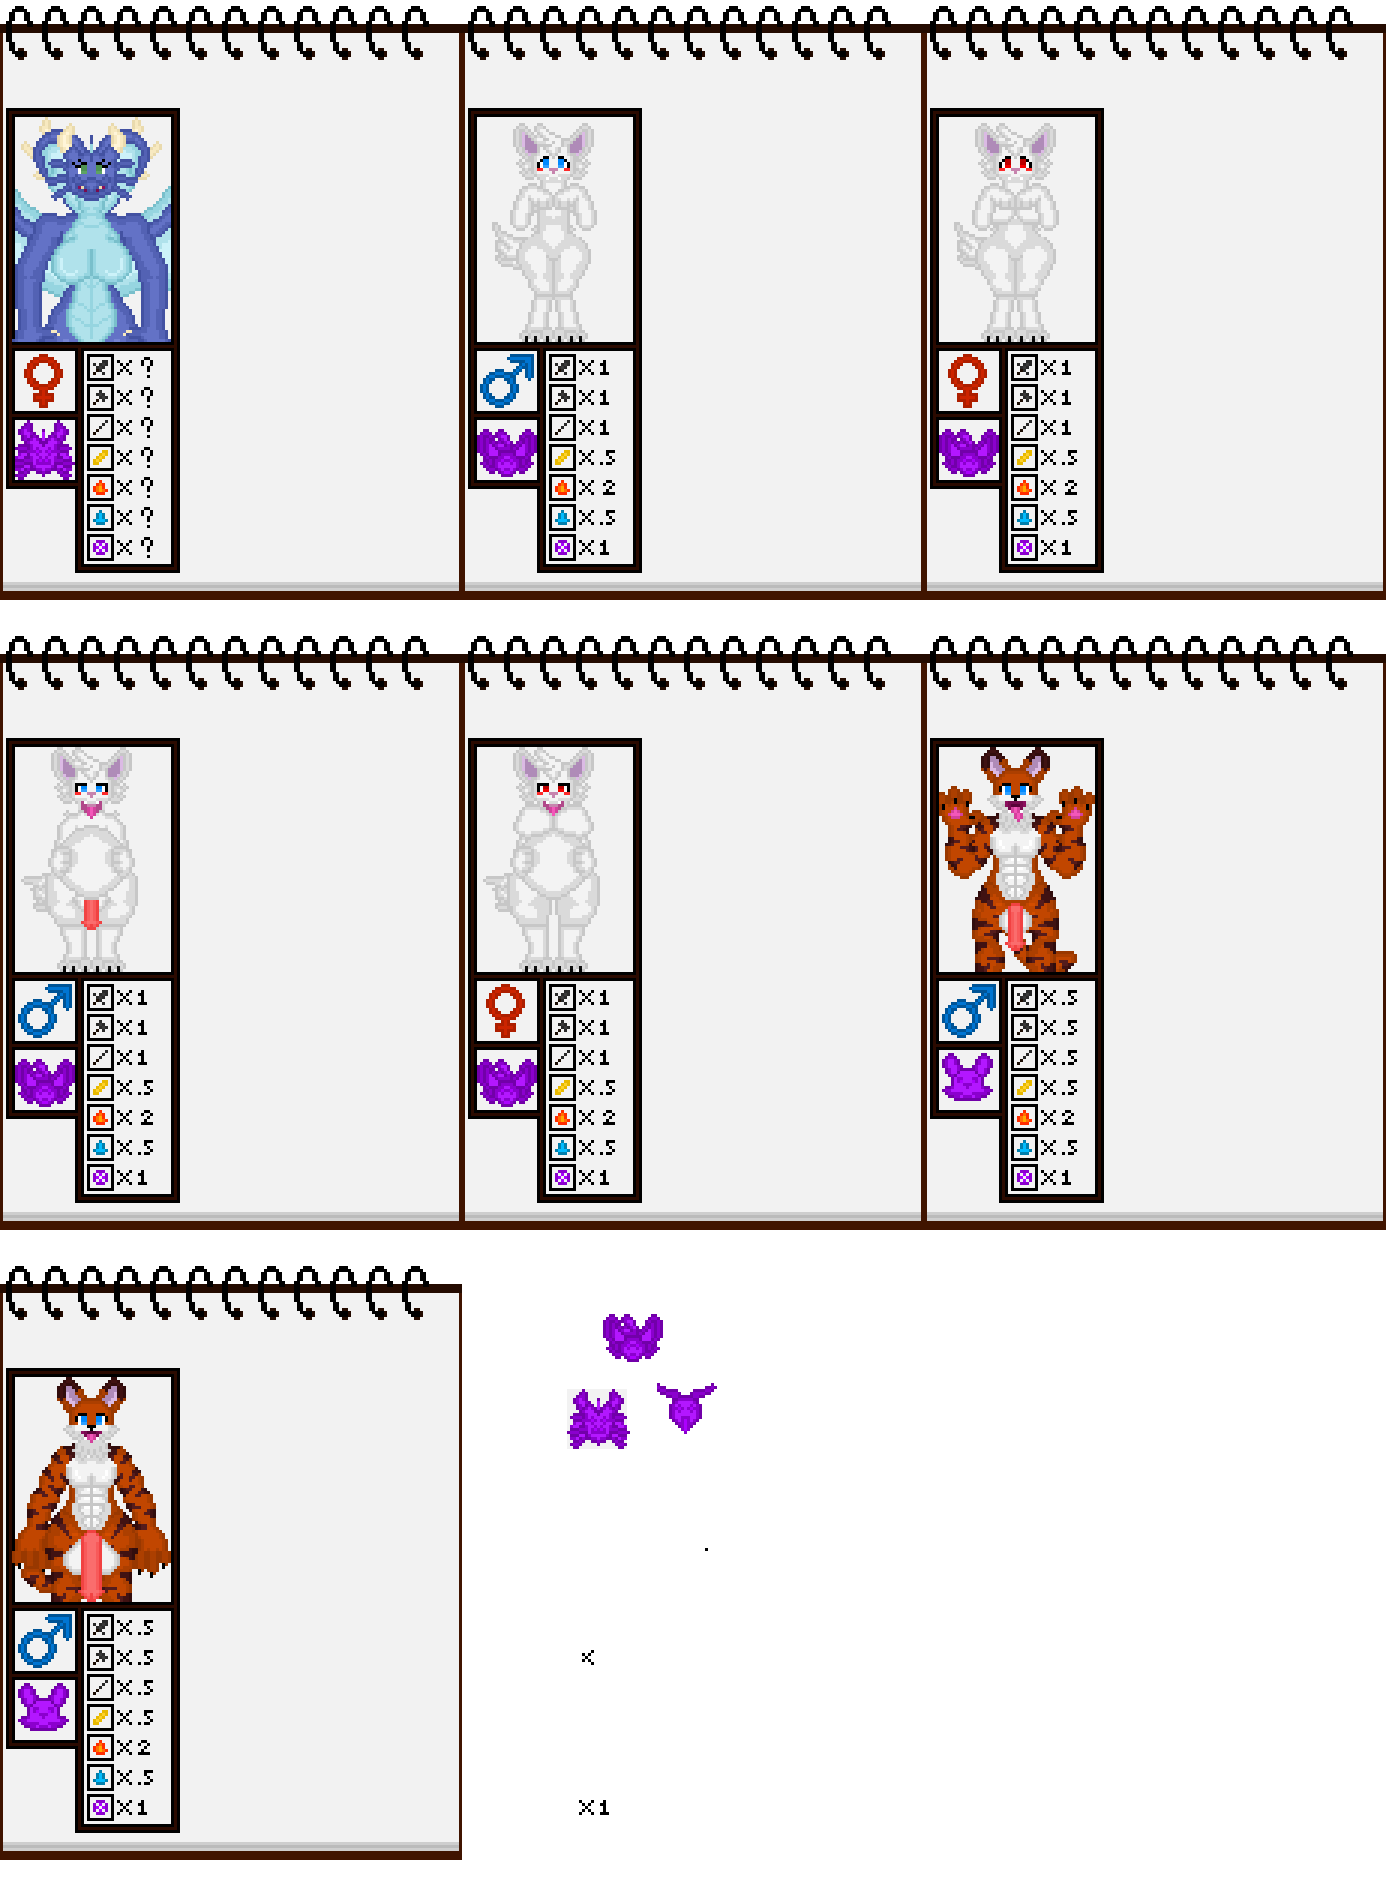
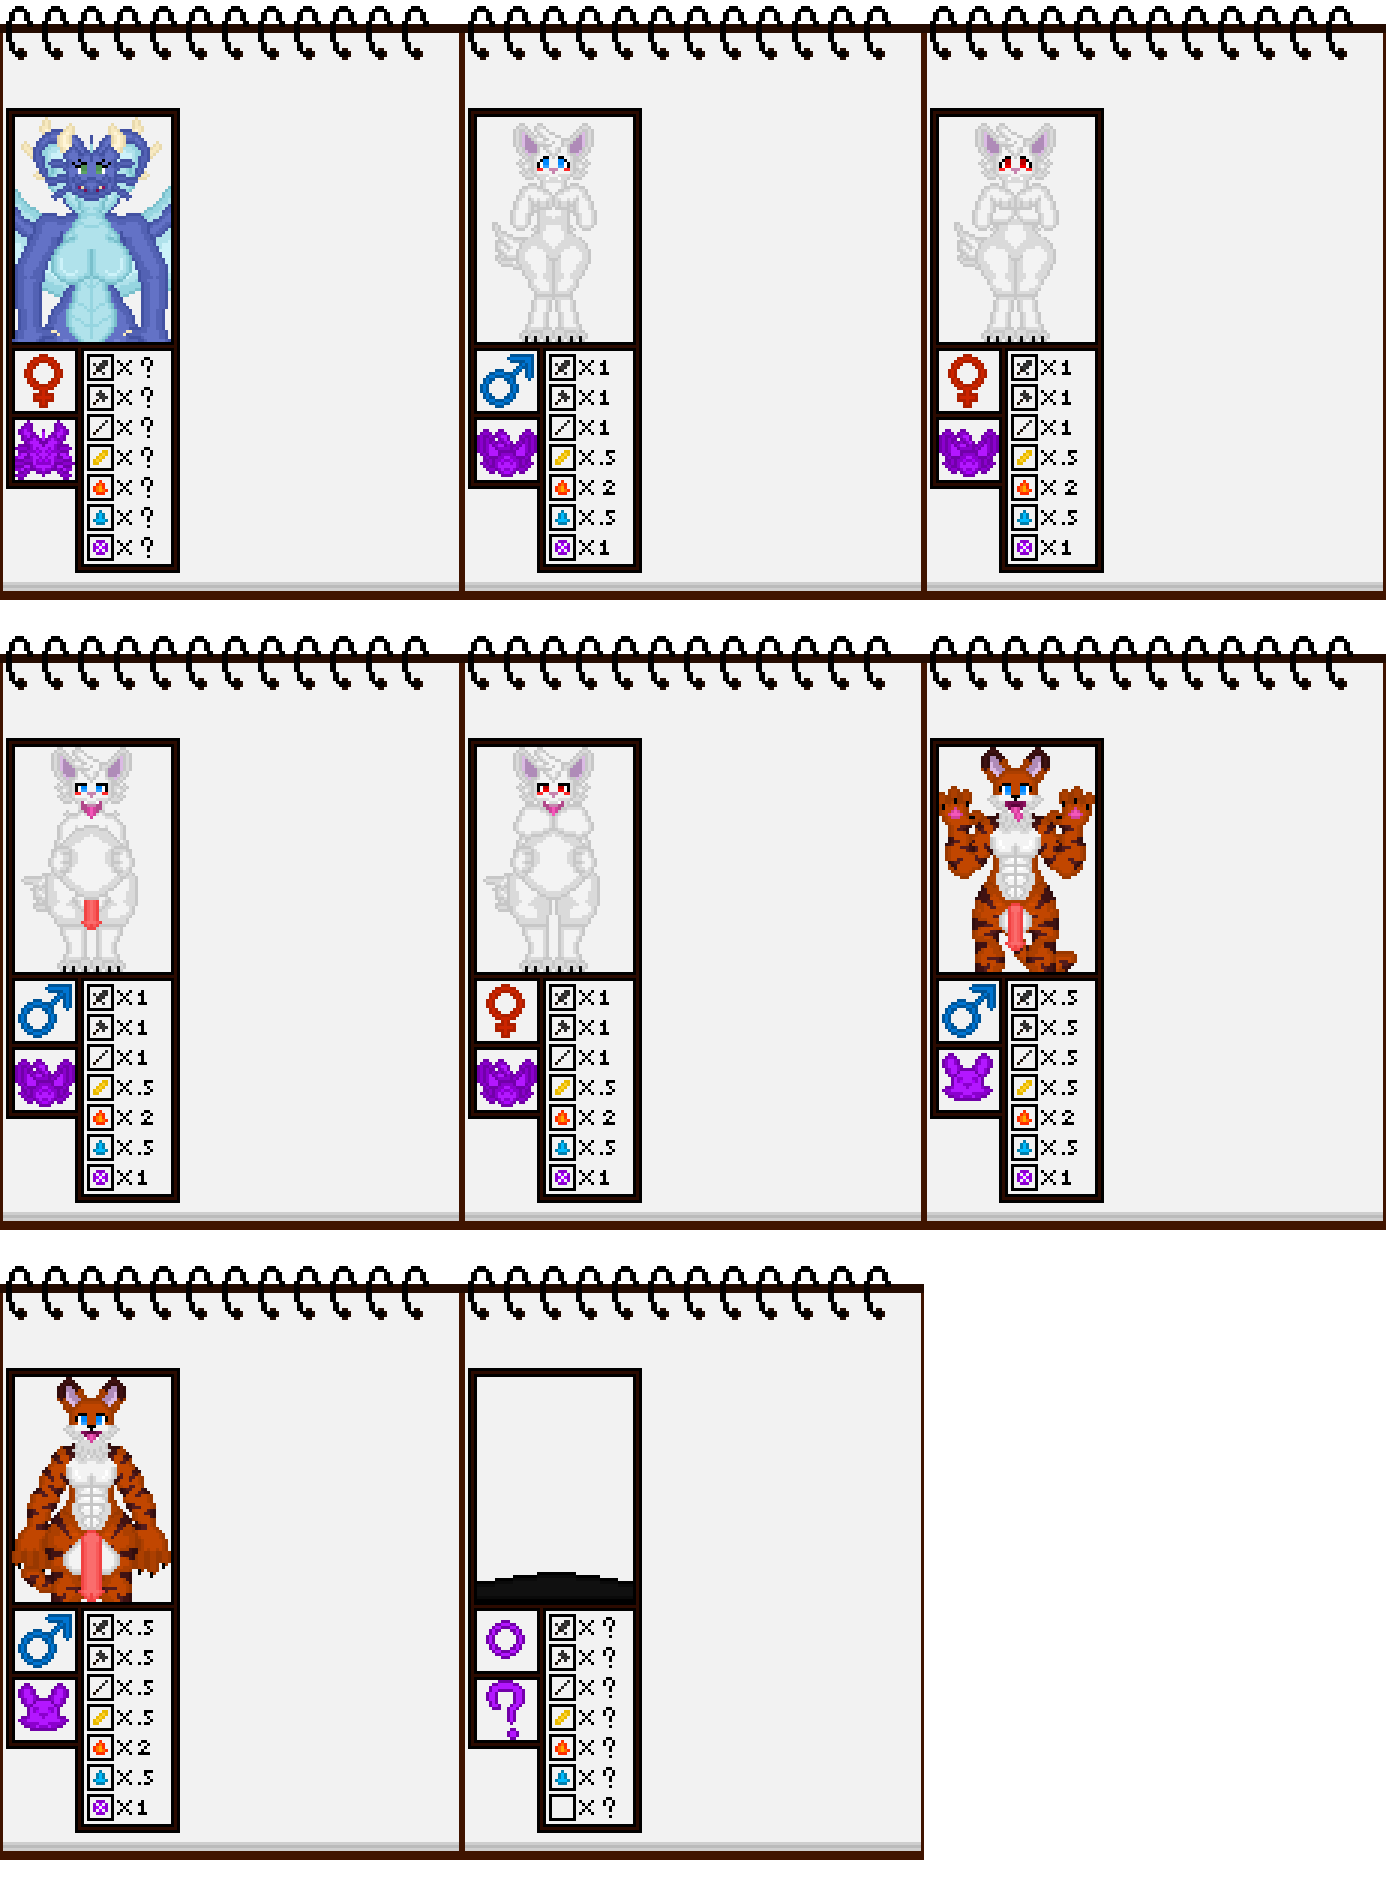
save

Changed region(s): [[0.3102, 0.6556, 0.6825, 0.9989]]

diff --git a/scripts/enemyScripts/curseShadow.js b/scripts/enemyScripts/curseShadow.js
@@ -15,7 +15,7 @@ class curseShadow extends enemy {
 
         //make a hitbox so the cat can grab the player.
         this.grabHitBox = new hitBoxes(scene,this.x,this.y);
-        this.grabHitBox.setSize(55,30,true);
+        this.grabHitBox.setSize(56,30,true);
         this.hitboxActive = false;
 
         this.attemptingGrab = false;
@@ -32,8 +32,8 @@ class curseShadow extends enemy {
         //defines Enemy animations based on the players sex.
         this.anims.create({ key: 'shadowIdle', frames: this.anims.generateFrameNames('curseShadowMale', { start: 0, end: 3 }), frameRate: 7, repeat: -1 });
         this.anims.create({ key: 'shadowMove', frames: this.anims.generateFrameNames('curseShadowMale', { start: 4, end: 8 }), frameRate: 7, repeat: -1 });
-        this.anims.create({ key: 'shadowGrabStart', frames: this.anims.generateFrameNames('curseShadowMale', { start: 9, end: 11 }), frameRate: 12, repeat: 0 });
-        this.anims.create({ key: 'shadowGrabMiss', frames: this.anims.generateFrameNames('curseShadowMale', { start: 12, end: 14 }), frameRate: 12, repeat: 0 });
+        this.anims.create({ key: 'shadowGrabStart', frames: this.anims.generateFrameNames('curseShadowMale', { start: 9, end: 10 }), frameRate: 12, repeat: 0 });
+        this.anims.create({ key: 'shadowGrabMiss', frames: this.anims.generateFrameNames('curseShadowMale', { start: 11, end: 14 }), frameRate: 12, repeat: 0 });
         this.anims.create({ key: 'shadowDefeated', frames: this.anims.generateFrameNames('curseShadowMale', { start: 15, end: 22 }), frameRate: 7, repeat: 0 });
         if (sex === 0) {
             this.anims.create({ key: 'playerSuckedIn', frames: this.anims.generateFrameNames('curseShadowMale', { start: 23, end: 28 }), frameRate: 7, repeat: 0 });
@@ -257,11 +257,8 @@ class curseShadow extends enemy {
 
                     //decides amount of enemy drops based on size
                         if( dropChance > 0){
-                            this.scene.initItemDrop(this.x + (Math.random() * (20 - 10) + 10)-10,this.y,13,1,dropAmount,"BLUE SLIME GLOB","CHUNK OF SLIME. FEELS WARM...","drop",5);
+                            this.scene.initItemDrop(this.x + (Math.random() * (20 - 10) + 10)-10,this.y,22,1,dropAmount,"SHADOW GLOB","A PIECE OF WISPY SHADOW","drop",8);
                         }
-
-                        this.scene.initItemDrop(this.x + (Math.random() * (20 - 10) + 10)-10,this.y,12,1,1,"BLUE SLIME CORE","PULSES AND THROBS IN YOUR HAND.","drop",10);
-                        //play defeated animation.
 
                         this.anims.play('shadowDefeated').once('animationcomplete', () => {
                             //then destroy enemy.
@@ -825,7 +822,7 @@ class curseShadow extends enemy {
             this.playerDefeated = true;
             skipIndicatorEmitter.emit(skipIndicator.activateSkipIndicator,true);
 
-            this.scene.enemyThatDefeatedPlayer = "curseShadowMale";
+            this.scene.enemyThatDefeatedPlayer = "curseShadow";
 
             // if we start the player defeated animation then we need to set a few things.
             ///HERE! NEEDS TO CHECK FI PALYER DEFEATED, TO START THE DEFEATED PROGRESSION AND SETTING OF KEYPROMPTS, LOCKS OUT SO IT ONLY HAPPENS ONCE. 

diff --git a/scripts/uiScripts/inventoryScripts/bestiary.js b/scripts/uiScripts/inventoryScripts/bestiary.js
@@ -39,6 +39,7 @@ class bestiary extends Phaser.Physics.Arcade.Sprite {
     this.anims.create({ key: 'whiteCatFemaleTF', frames: this.anims.generateFrameNames('bestiary2', { start: 2, end: 2 }), frameRate: 7, repeat: -1 });
     this.anims.create({ key: 'whiteCatMaleVore', frames: this.anims.generateFrameNames('bestiary2', { start: 3, end: 3 }), frameRate: 7, repeat: -1 });
     this.anims.create({ key: 'whiteCatFemaleVore', frames: this.anims.generateFrameNames('bestiary2', { start: 4, end: 4 }), frameRate: 7, repeat: -1 });
+    this.anims.create({ key: 'curseShadow', frames: this.anims.generateFrameNames('bestiary2', { start: 7, end: 7 }), frameRate: 7, repeat: -1 });
     
     // the default animation for bestiary should be closed.
     this.anims.play("closed");
@@ -161,6 +162,10 @@ class bestiary extends Phaser.Physics.Arcade.Sprite {
       whiteCatFemaleVore: {
         title: "CHUBBY CAT FEMALE",
         summary: "ONCE ITS PREY HAS BEEN COMPLETELY SWALLOWED, IT LOVES RUBBING ITS ENGORGED TUMMY UNTIL ITS PREY IS NOTHING MORE THAN BELLY FAT. YOU LIKE BEING GIRL BELLY FAT DON`T YOU? :3 ",
+      },
+      curseShadow: {
+        title: "STRANGE SHADOW",
+        summary: "THIS STRANGE ENEMY, LURKS IN CAVES CONSUMED BY DENSE SHADOW. SUCKING UNSUSPECTING PREY INTO ITS BODY, WHERE IT ABSORBS THEM FOR A UNKNOWN PURPOSE...",
       },
 
       back: {

diff --git a/scripts/uiScripts/inventoryScripts/inventorySlots.js b/scripts/uiScripts/inventoryScripts/inventorySlots.js
@@ -30,6 +30,7 @@ class inventorySlots extends Phaser.Physics.Arcade.Sprite{
       this.anims.create({key: '19',frames: this.anims.generateFrameNames('inventorySlots', { start: 19, end: 19 }),frameRate: 10,repeat: -1});
       this.anims.create({key: '20',frames: this.anims.generateFrameNames('inventorySlots', { start: 20, end: 20 }),frameRate: 10,repeat: -1});
       this.anims.create({key: '21',frames: this.anims.generateFrameNames('inventorySlots', { start: 21, end: 21 }),frameRate: 10,repeat: -1});
+      this.anims.create({key: '22',frames: this.anims.generateFrameNames('inventorySlots', { start: 22, end: 22 }),frameRate: 10,repeat: -1});
 
       this.anims.play("empty");
       this.animsNumber = 0;

diff --git a/scripts/gameObjectScripts/itemDrop.js b/scripts/gameObjectScripts/itemDrop.js
@@ -34,6 +34,7 @@ class itemDrop extends Phaser.Physics.Arcade.Sprite{
         this.anims.create({key: '19',frames: this.anims.generateFrameNames('itemDrops', { start: 19, end: 19 }),frameRate: 10,repeat: -1});
         this.anims.create({key: '20',frames: this.anims.generateFrameNames('itemDrops', { start: 20, end: 20 }),frameRate: 10,repeat: -1});
         this.anims.create({key: '21',frames: this.anims.generateFrameNames('itemDrops', { start: 21, end: 21 }),frameRate: 10,repeat: -1});
+        this.anims.create({key: '22',frames: this.anims.generateFrameNames('itemDrops', { start: 22, end: 22 }),frameRate: 10,repeat: -1});
             
         
         //sets the given item data into a object

diff --git a/scripts/levelScripts/lockwoodLevels/shadowCave.js b/scripts/levelScripts/lockwoodLevels/shadowCave.js
@@ -218,7 +218,8 @@ class ShadowCave extends defaultScene {
           thisScene.initEnemy(883,1560,thisScene.playerSex,'curseShadow',false);
 
           thisScene.initEnemy(1100,1560,thisScene.playerSex,'curseShadow',false);
-          thisScene.initEnemy(2197,1464,thisScene.playerSex,'curseShadow',false);
+          thisScene.initEnemy(2197,1444,thisScene.playerSex,'curseShadow',false);
+
           thisScene.initEnemy(905,1016,thisScene.playerSex,'curseShadow',false);
           thisScene.spawnedEnemys = true;
         },1000);

diff --git a/scripts/sceneScripts/devRoom2.js b/scripts/sceneScripts/devRoom2.js
@@ -147,6 +147,7 @@ class devRoom2 extends defaultScene {
       this.setUpItemDropCollider();
 
       this.initItemDrop(1218,660,16,1,64,"FUEL ICHOR","FUEL FOR A LANTERN.","ammo",5);
+      //this.initItemDrop(1118,660,22,1,10,"SHADOW GLOB","A PIECE OF WISPY SHADOW","drop",8);
 
       
        //sets up enemy colliders and groups
